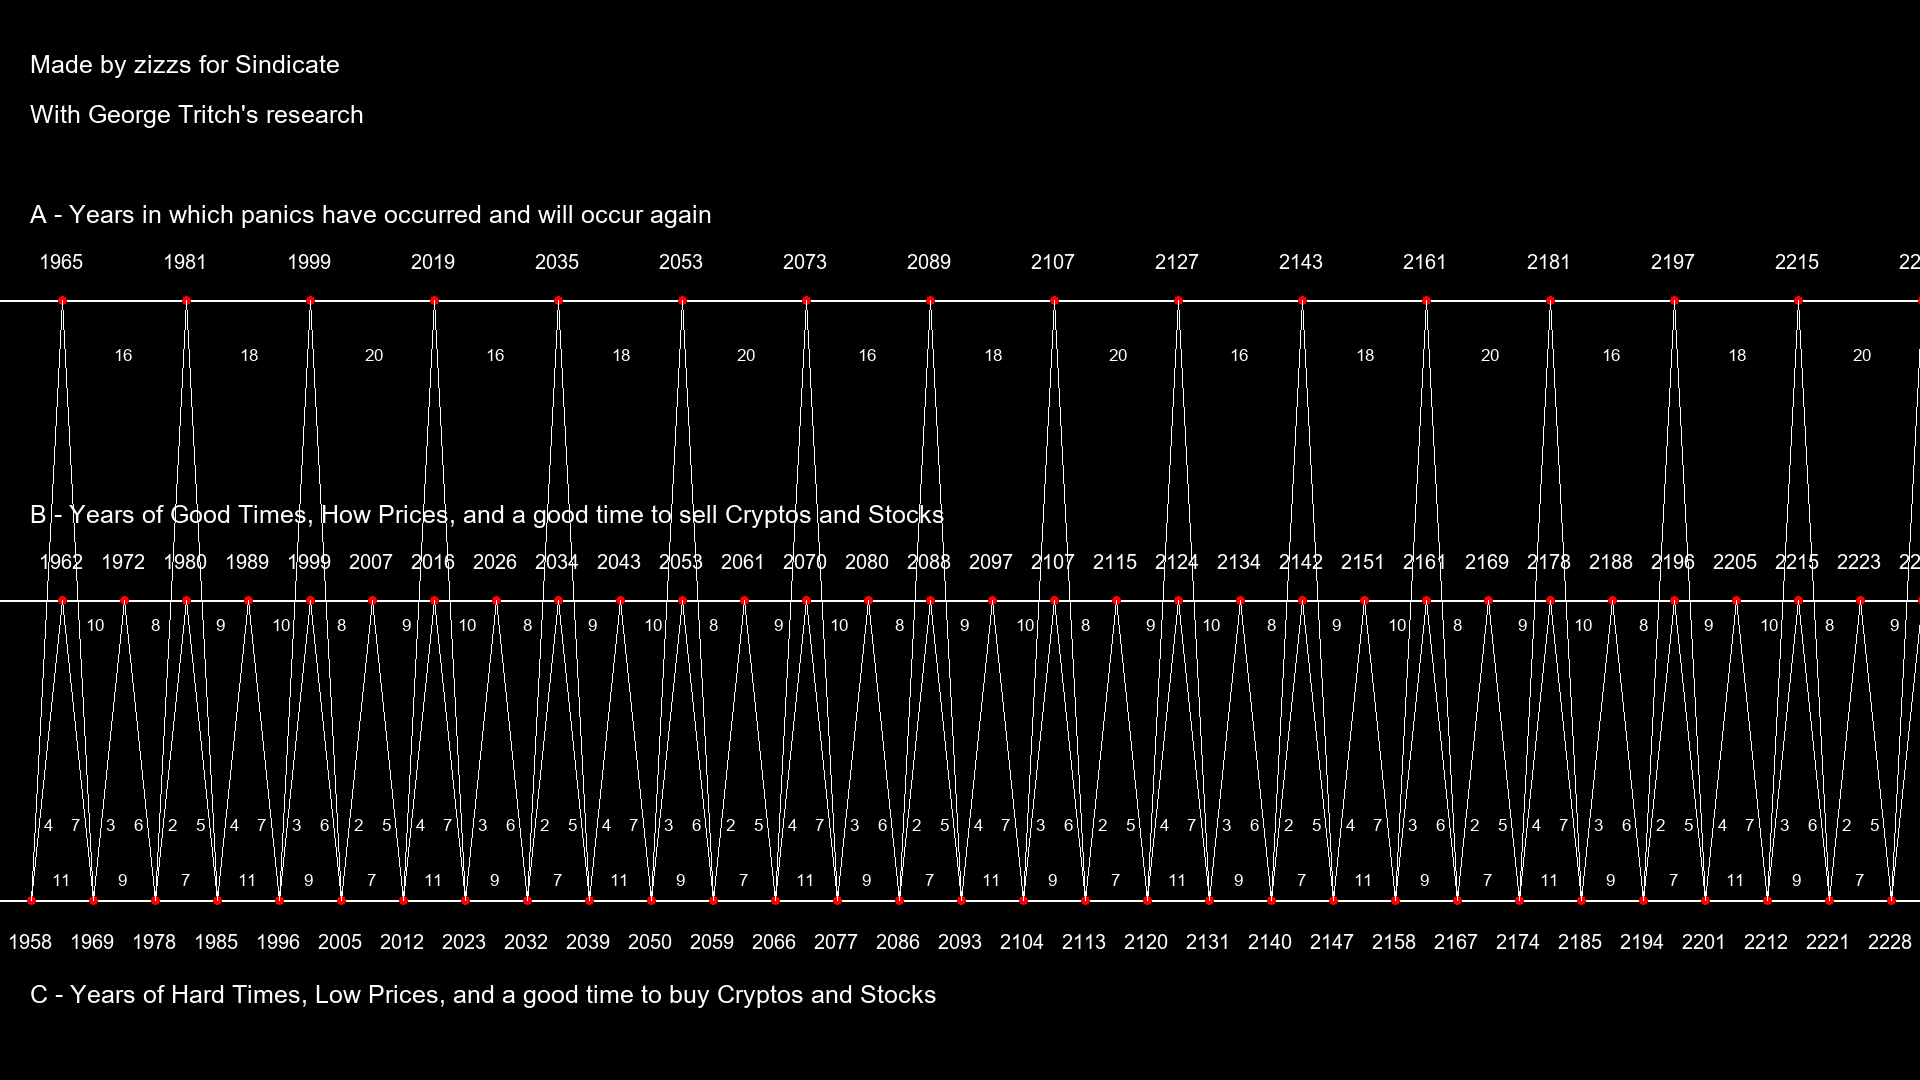
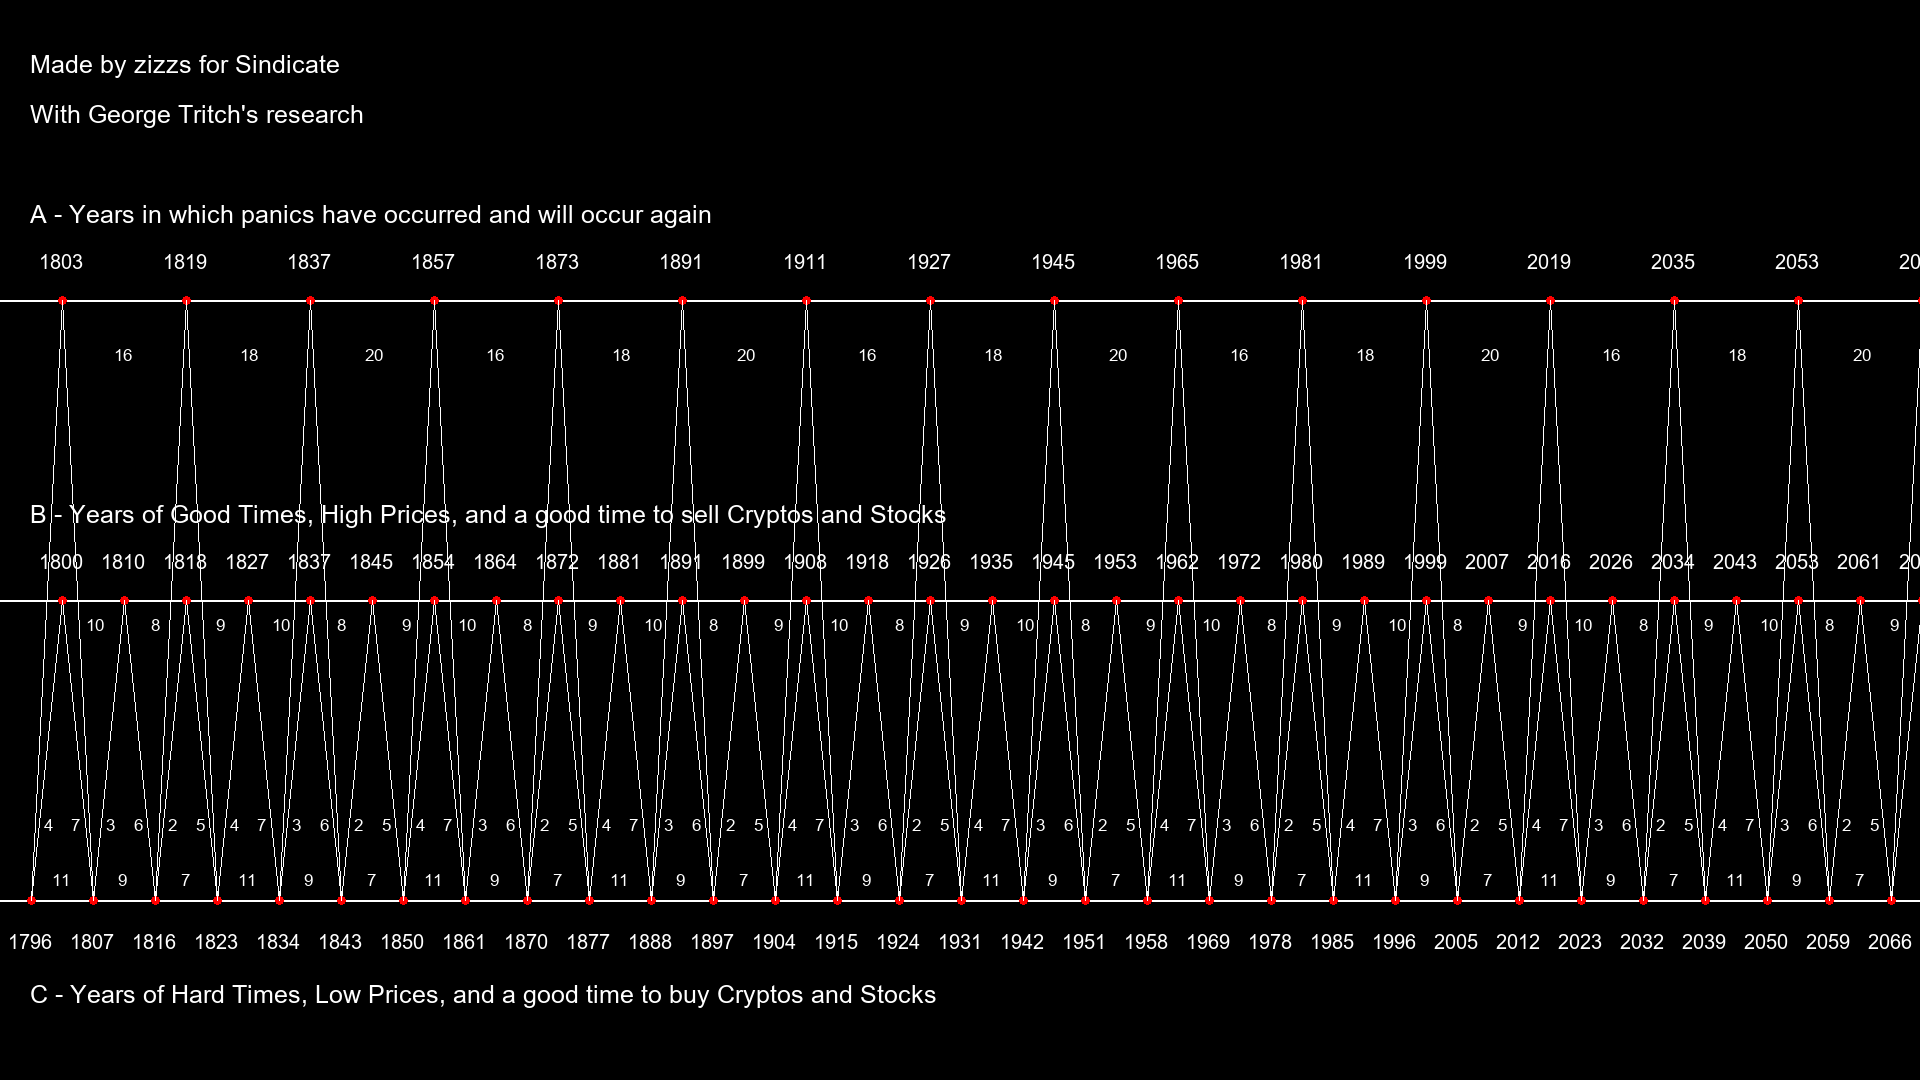
Add files via upload

diff --git a/main.py b/main.py
@@ -2,9 +2,9 @@ from operator import length_hint
 from turtle import color
 from PIL import Image, ImageDraw, ImageOps, ImageFont 
 import webbrowser
-yearA = 1965
-yearB = 1962
-yearC = 1958
+yearA = 1803
+yearB = 1800
+yearC = 1796
 yearsA = []
 yearsB = []
 yearsC = []
@@ -104,7 +104,7 @@ for i in range(6):
 
 font = ImageFont.truetype('ARIAL.TTF', 25)
 draw.text((30, 980), text="C - Years of Hard Times, Low Prices, and a good time to buy Cryptos and Stocks", font = font, align ="centre")
-draw.text((30, 500), text="B - Years of Good Times, How Prices, and a good time to sell Cryptos and Stocks", font = font, align ="centre")
+draw.text((30, 500), text="B - Years of Good Times, High Prices, and a good time to sell Cryptos and Stocks", font = font, align ="centre")
 draw.text((30, 200), text="A - Years in which panics have occurred and will occur again", font = font, align ="centre")
 draw.text((30, 50), text="Made by zizzs for Sindicate", font = font, align ="centre")
 draw.text((30, 100), text="With George Tritch's research", font = font, align ="centre")
